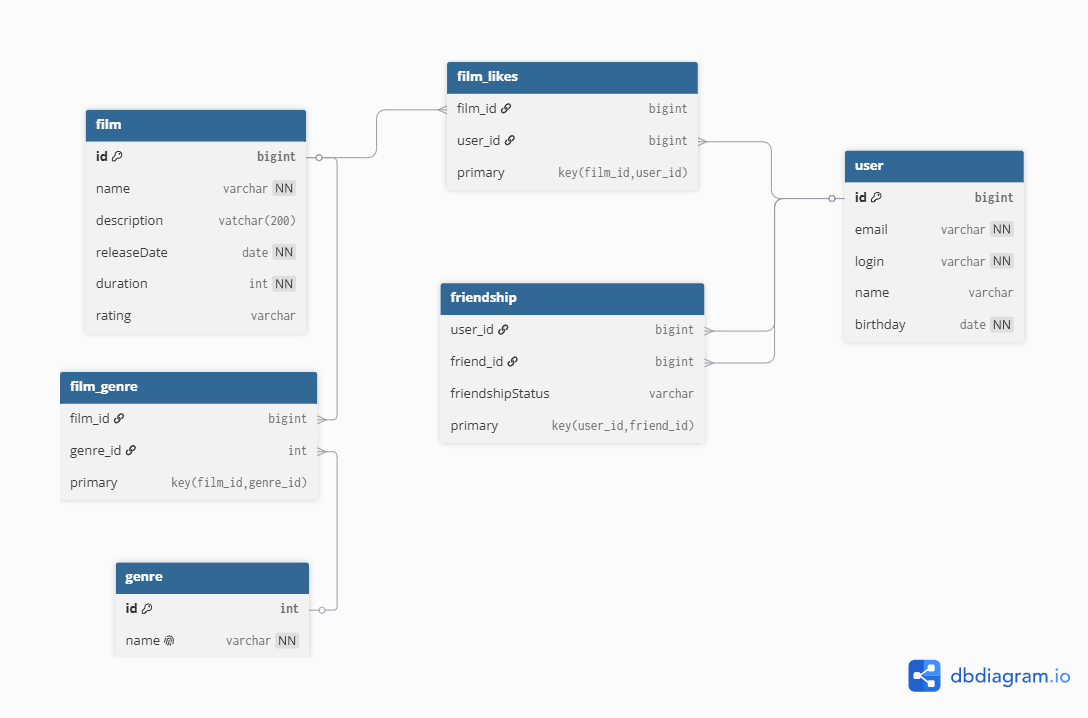
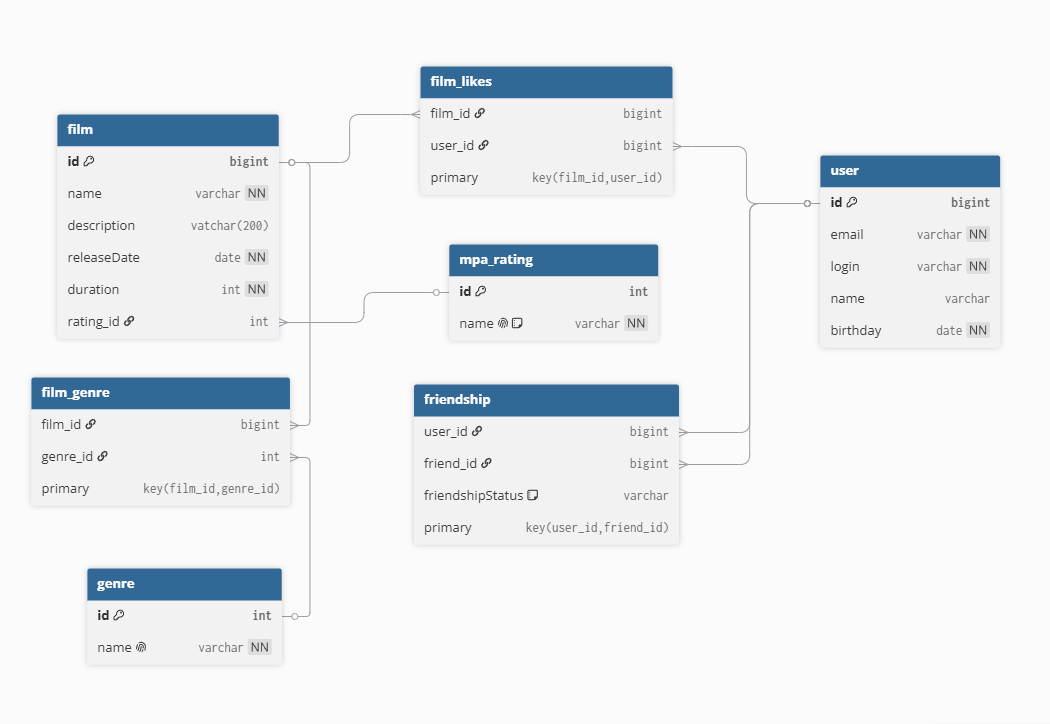
Доработать проект по комментариям ревьюера к промежуточному ТЗ 12 спринта

diff --git a/src/main/java/ru/yandex/practicum/filmorate/service/UserService.java b/src/main/java/ru/yandex/practicum/filmorate/service/UserService.java
@@ -5,6 +5,7 @@ import org.springframework.stereotype.Service;
 import org.springframework.util.StringUtils;
 import org.springframework.web.bind.annotation.RequestBody;
 import ru.yandex.practicum.filmorate.exception.ValidationException;
+import ru.yandex.practicum.filmorate.model.FriendshipStatus;
 import ru.yandex.practicum.filmorate.model.User;
 import ru.yandex.practicum.filmorate.storage.user.UserStorage;
 
@@ -35,6 +36,10 @@ public class UserService {
 
         user.getFriendsIds().add(friendId);
         friend.getFriendsIds().add(userId);
+
+        user.getFriendshipStatusMap().put(friendId, FriendshipStatus.CONFIRMED);
+        friend.getFriendshipStatusMap().put(userId, FriendshipStatus.CONFIRMED);
+
         log.debug("Пользователь {} и {} стали друзьями", userId, friendId);
     }
 
@@ -49,6 +54,10 @@ public class UserService {
 
         user.getFriendsIds().remove(friendId);
         friend.getFriendsIds().remove(userId);
+
+        user.getFriendshipStatusMap().remove(friendId);
+        user.getFriendshipStatusMap().remove(friendId);
+
         log.debug("Пользователь {} и {} перестали быть друзьями", userId, friendId);
     }
 

diff --git a/src/main/java/ru/yandex/practicum/filmorate/model/User.java b/src/main/java/ru/yandex/practicum/filmorate/model/User.java
@@ -23,5 +23,6 @@ public class User {
     private LocalDate birthday;
     @Builder.Default
     private Set<Long> friendsIds = new HashSet<>();
+    @Builder.Default
     private Map<Long, FriendshipStatus> friendshipStatusMap = new HashMap<>();
 }

diff --git a/README.md b/README.md
@@ -7,36 +7,71 @@
 - **genre** - справочник жанров
 - **film_genre** - связь фильмов с жанрами
 - **film_likes** - связь пользователей с фильмами, которые им понравились
-- **friendship** - отношения дружбы между пользователями
+- **friendship** - отношения дружбы между пользователями. Статус ограничен двумя значениями (PENDING / CONFIRMED) через CHECK-ограничение
+- **mpa_rating** - справочник рейтингов MPA с допустимыми значениями: G, PG, PG-13, R, NC-17.
 
 ### Примеры запросов
 1. **Получение всех фильмов**
 ```sql
 SELECT * FROM film;
 ```
-2. **Получение пользователя по id**
+2. **Получение всех пользователей**
+```sql
+SELECT * FROM user;
+```
+3. **Получение пользователя по id**
 ```sql
 SELECT * FROM user WHERE id = ?;
    ```
-3. **Добавление лайка**
+4. **Добавление лайка**
 ```sql
 INSERT INTO film_likes (film_id, user_id) VALUES (?, ?);
 ```
-4. **Топ-10 фильмов по лайкам**
+5. **Удаление лайка**
 ```sql
-SELECT f.name 
+DELETE FROM film_likes WHERE film_id = ? AND user_id = ?;
+```
+6. **Топ-10 фильмов по лайкам**
+```sql
+SELECT f.id, f.name 
 FROM film AS f
-JOIN film_likes AS fl ON f.id = fl.film_id
-GROUP BY f.name, f.id
+LEFT JOIN film_likes AS fl ON f.id = fl.film_id
+GROUP BY f.id, f.name
 ORDER BY COUNT(fl.user_id) DESC
 LIMIT 10;
 ```
-5. **Общие друзья пользователей 1 и 2**
+7. **Получение фильма с его жанрами и MPA-рейтингом**
+```sql
+SELECT f.id, f.name, f.description, f.releaseDate, f.duration,
+       mr.name AS mpa_rating,
+       g.name AS genre_name
+FROM film AS f
+LEFT JOIN mpa_rating AS mr ON f.reting_id = mr.id
+LEFT JOIN film_genre AS fg ON f.id = fg.film_id
+LEFT JOIN genre AS g ON fg.genre_id = g.id
+WHERE f.id = ?;
+```
+8. **Общие друзья пользователей 1 и 2**
 ```sql
 SELECT u.id, u.name 
 FROM friendship AS f1
-JOIN friendship AS f2 ON f1.user_id = f2.user_id
+JOIN friendship AS f2 ON f1.friend_id = f2.friend_id
 JOIN user AS u ON u.id = f1.friend_id
 WHERE f1.user_id = 1 AND f2.user_id = 2;
+```
+9. **Получение списка друзей пользователя с их статусами**
+```sql
+SELECT u.id, u.name, f.friendshipStatus
+FROM friendship AS f 
+JOIN user AS u ON u.id = f.friend_id
+WHERE f.user_id = ?;
+
+UNION
+
+SELECT u.id, u.name, f.friendshipStatus
+FROM friendship f
+JOIN user u ON u.id = f.user_id
+WHERE f.friend_id = ?
+ORDER BY friendshipStatus DESC;
 ```
 